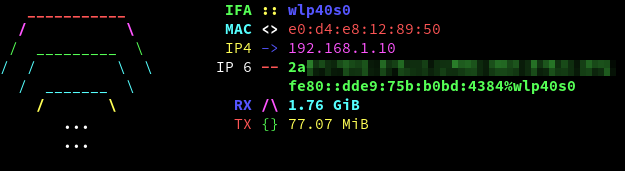
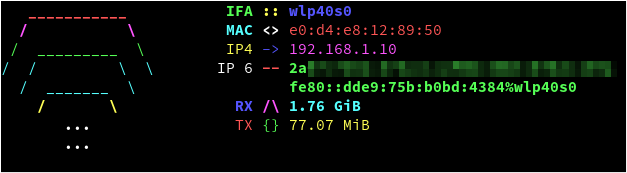
Add border to example images and change readme layout

diff --git a/README.md b/README.md
@@ -3,8 +3,10 @@
 
 <h2 align="center">ifetch</h2>
 
-<img align="right" src="assets/images/default.png" width="450px" height="130px" border="1px solid #555">
-<img align="right" src="assets/images/arlecchino.png" width="450px" height="130px" border="1px solid #555">
+<p align="center"><img align="center" src="assets/images/default.png" width="450px" height="130px"></p>
+<br>
+
+<img align="right" src="assets/images/arlecchino.png" width="450px" height="130px">
 
 ifetch is a simple tool for Linux systems to display network interface information. You can currently install it from source in a few easy steps, and soon using a number of package managers.
 
